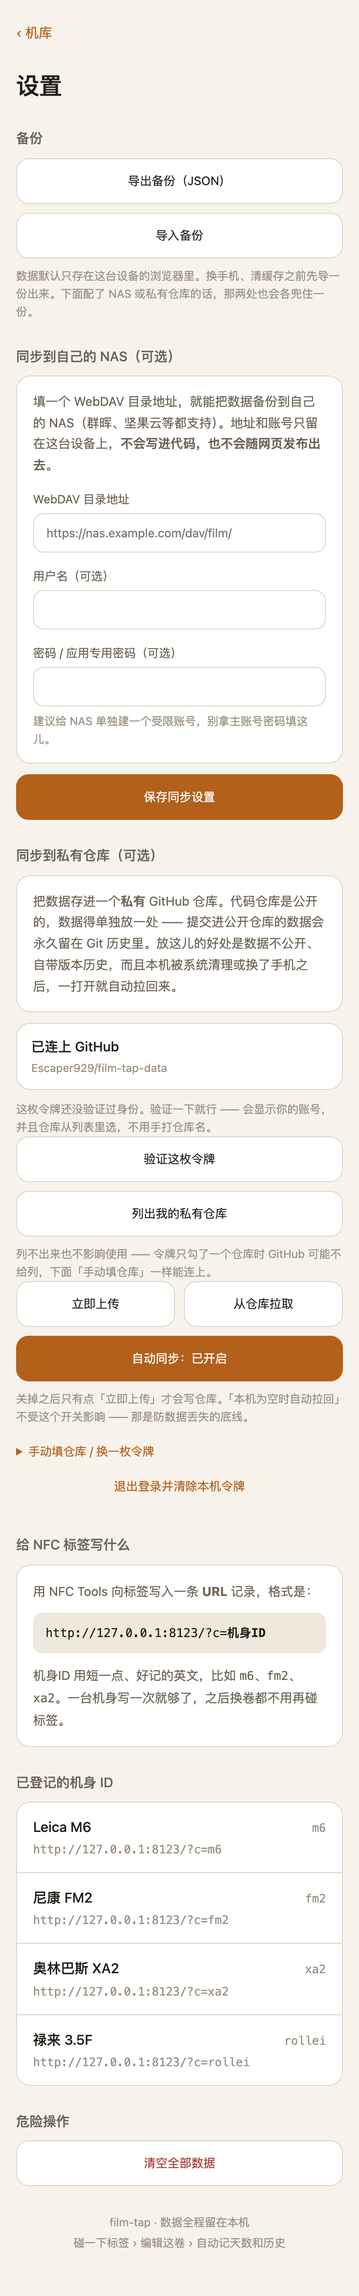
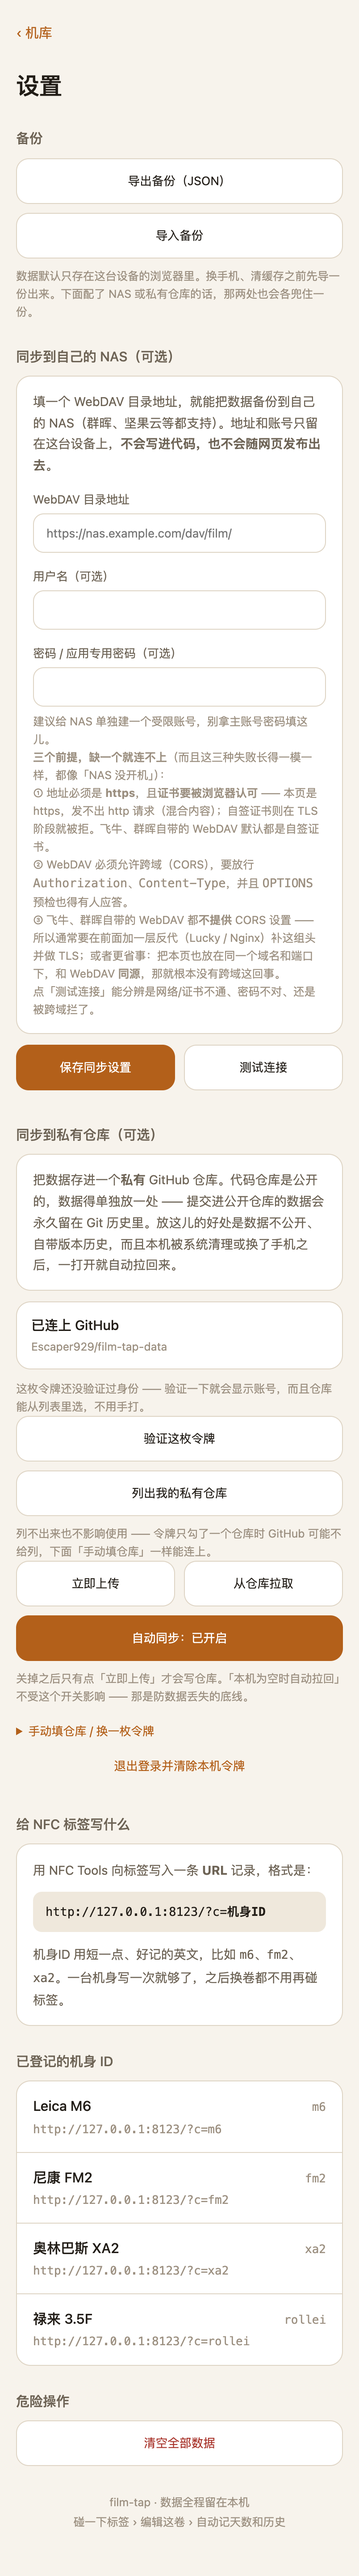
把「证书」补进诊断的第一层 —— 飞牛默认就是自签证书
查了飞牛（fnOS）的实际情况，有两个结论跟原来的文案不符：

1. 飞牛自带的 WebDAV 用的是**自签证书**（社区里反复出现「注意用 http 不要
   https，否则提示证书错误」）。而自签证书是在 TLS 阶段就被拒的，
   fetch 抛出的异常和「DNS 解析不了」一模一样、也落在 no-cors 探测那一层 ——
   可那一层的文案只写了「查域名解析、端口、NAS 是否开机」，正好漏掉
   对飞牛用户来说最常见的那一种。补上。
2. 飞牛的 WebDAV **不提供任何 CORS 设置项**（社区给出的方案都是
   「在前面加一层反代补 CORS 头」或「用代理绕过」）。所以我之前写的
   「飞牛/Alist 有的默认就带，有的要自己开」是猜的，是错的，删掉。

于是「两个前提」改成「三个前提」，并写清两条出路：
- 前面加一层反代（Lucky / Nginx）签真证书 + 补 CORS 头 + 应答 OPTIONS 预检；
- 或者让页面和 WebDAV 走同一个域名端口，**同源**就根本没有跨域这回事。
两条都不用去改 NAS 的 WebDAV —— 缺的那一层本来就不在 WebDAV 里。

改动：
- testDav() 第一层文案补「以及证书（自签的会被浏览器拒掉）」；
  第二层失败文案从「多半是 NAS 没允许跨域」改成指方向的
  「得在它前面加一层反代补上这组头」（重试永远不会好，得说清这点）。
- 设置页 NAS 提示重写成三条，点名飞牛/群晖自带 WebDAV 都不满足，
  并给出反代 / 同源两条路。
- README 那一节同步重写，另外加了一段**不用等页面**的自查：
  一条 curl 直接打预检（和页面会发的那个请求一模一样）。
- _selftest.js：`/连不到这个地址/` 那条断言追加「文案里必须出现『证书』」，
  覆盖面从三种失败变四种；改名「WebDAV 诊断分得清四种失败」。
- _firstrun.py：新增「NAS 提示写全三个前提」（证书 / 跨域 / 同源），
  并在分层结论那条上追加 `"证书" in probe`。
- _shots.py 的用法写进 README 与 _firstrun.py 顶部：这两个脚本要
  playwright，装在工程 venv 里，直接敲 `python` 会报 ModuleNotFoundError。

顺带修一个仓库状态问题：上一批只留了 shots/07、16、17，
但 11（手填仓库那套排版）同样是 `#/settings`、同样有 NAS 卡片，
当时被当成「日期噪声」一起回滚了 —— 于是 HEAD 里的 11 是过期的。
这次把 11 一并更新，另 7 张（日期噪声）仍然回滚。

sw.js CACHE v17→v18，SHELL_FP 同步。

diff --git a/index.html b/index.html
@@ -1487,12 +1487,16 @@ function renderSettings(db){
      + '<input id="dav-pass" type="password" autocomplete="new-password" placeholder="'
      +   (dav && dav.pass ? "已保存，留空就不改" : "") + '">';
   h += '<div class="hint">建议给 NAS 单独建一个受限账号，别拿主账号密码填这儿。<br>'
-     + '<b>两个前提，不满足就一定连不上：</b>① 地址必须是 <b>https</b> —— '
-     + '这个页面本身是 https 的，浏览器不允许它发出 http 请求（混合内容），'
-     + '拦得和「NAS 没开机」一模一样；② NAS 的 WebDAV 必须允许跨域（CORS），'
-     + '要放行 <span class="mono">Authorization</span> 和 <span class="mono">Content-Type</span> '
-     + '这两个请求头。群晖自带的 WebDAV 默认不放行，会卡在预检。'
-     + '点「测试连接」能分辨是网络不通、密码不对、还是被跨域拦了。</div>';
+     + '<b>三个前提，缺一个就连不上</b>（而且这三种失败长得一模一样，都像「NAS 没开机」）：<br>'
+     + '① 地址必须是 <b>https</b>，且<b>证书要被浏览器认可</b> —— 本页是 https，'
+     + '发不出 http 请求（混合内容）；自签证书则在 TLS 阶段就被拒。'
+     + '飞牛、群晖自带的 WebDAV 默认都是自签证书。<br>'
+     + '② WebDAV 必须允许跨域（CORS），要放行 <span class="mono">Authorization</span>、'
+     + '<span class="mono">Content-Type</span>，并且 <span class="mono">OPTIONS</span> 预检也得有人应答。<br>'
+     + '③ 飞牛、群晖自带的 WebDAV 都<b>不提供</b> CORS 设置 —— 所以通常要在前面加一层反代'
+     + '（Lucky / Nginx）补这组头并做 TLS；或者更省事：把本页也放在同一个域名和端口下，'
+     + '和 WebDAV <b>同源</b>，那就根本没有跨域这回事。<br>'
+     + '点「测试连接」能分辨是网络/证书不通、密码不对、还是被跨域拦了。</div>';
   h += '</div>';
   h += '<div class="row">'
      +   '<button class="btn' + (dav ? "" : " primary") + '" onclick="saveDavFromForm()">保存同步设置</button>'
@@ -1901,10 +1905,12 @@ function saveDavFromForm(){
    现有那句「连不上 NAS，检查地址和网络」在三种情况下都会出现，
    于是用户会去查一个根本没坏的网络。
 
-   ① no-cors 探一次（不发凭据、不读响应）—— 它只回答「网络层通不通」。
+   ① no-cors 探一次（不发凭据、不读响应）—— 它只回答「这一趟连接建不建得起来」。
+      注意它同时也覆盖**证书**：自签证书在 TLS 阶段就被拒，请求同样发不出去。
+      不是多余的一层 —— 飞牛/群晖自带的 WebDAV 默认就是自签证书，这是最常见的一种。
    ② 网络通了再发正常请求 —— 能过就是真能用。
    ③ 网络通、正常请求却被拦 —— 那就只可能是 NAS 没允许跨域（CORS），
-      这不是网络问题，得去 NAS 上开。 */
+      这不是网络问题，得在 NAS 前面加一层能发 CORS 头的反代。 */
 async function testDav(){
   const url = ($("#dav-url").value || "").trim();
   if (!url){ toast("先填 WebDAV 地址"); return; }
@@ -1924,7 +1930,10 @@ async function testDav(){
   try{
     await fetch(target, { mode: "no-cors", method: "GET", cache: "no-store" });
   }catch(e){
-    toast("连不到这个地址 —— 查域名解析、端口、以及 NAS 是否开机");
+    /* 这一层同时兜住证书：自签证书在 TLS 阶段就被拒，请求根本没发出去，
+       抛的异常和「DNS 解析不了」一模一样。所以必须把证书写进这句里，
+       否则用默认自签证书的 NAS 用户会去查一个没坏的域名。 */
+    toast("连不到这个地址 —— 查域名解析、端口、NAS 是否开机，以及证书（自签的会被浏览器拒掉）");
     return;
   }
 
@@ -1935,7 +1944,9 @@ async function testDav(){
     if (res.status === 404)     { toast("连通 —— 还没有备份文件，点「立即同步」上传第一份"); return; }
     toast("连得上，但服务器回了 " + res.status);
   }catch(e){
-    toast("网络通，请求被浏览器拦了 —— 多半是 NAS 没允许跨域（CORS）");
+    /* 网络通、请求却没过 —— 只剩跨域这一种可能。给出**方向**而不是现象：
+       NAS 自带的 WebDAV（飞牛、群晖都算）不提供 CORS 设置，单纯重试永远不会好。 */
+    toast("网络通，但 NAS 这一层没允许跨域（CORS）—— 得在它前面加一层反代补上这组头");
   }
 }
 

diff --git a/_selftest.js b/_selftest.js
@@ -1211,10 +1211,15 @@ try {
       throw new TypeError("Failed to fetch");
     };
 
-    /* ① 连 no-cors 探测都抛 → 网络层就不通 */
+    /* ① 连 no-cors 探测都抛 → 连接根本建不起来。
+       这一层的文案必须同时点到**证书**：自签证书在 TLS 阶段就被拒，
+       抛的异常和「DNS 解析不了」一模一样。飞牛 / 群晖自带的 WebDAV
+       默认就是自签证书 —— 漏了这两个字，用户就去查一个没坏的域名了。 */
     global.fetch = async () => { throw new TypeError("Failed to fetch"); };
     await testDav();
-    const w1 = /连不到这个地址/.test(__el("#toast").textContent);
+    const t1 = __el("#toast").textContent;
+    const w1 = /连不到这个地址/.test(t1);
+    const w5 = /证书/.test(t1);
 
     /* ② 探测过了、正常请求被拦 → 网络好着，是 NAS 没允许跨域 */
     global.fetch = probeOK;
@@ -1237,8 +1242,9 @@ try {
     await testDav();
     const w4 = /账号密码不对/.test(__el("#toast").textContent);
 
-    check("WebDAV 诊断分得清三种失败", w1 && w2 && w3 && w4,
-          "网络不通=" + w1 + " 跨域被拦=" + w2 + " 无备份=" + w3 + " 密码错=" + w4);
+    check("WebDAV 诊断分得清四种失败", w1 && w2 && w3 && w4 && w5,
+          "网络/证书不通=" + w1 + " 提到证书=" + w5 + " 跨域被拦=" + w2 +
+          " 无备份=" + w3 + " 密码错=" + w4);
   } catch (e) {
     check("私有仓库同步", false, "抛异常 " + e.message);
   }

diff --git a/sw.js b/sw.js
@@ -8,11 +8,11 @@
    SHELL 里那些文件的内容指纹，`_selftest.js` 会算一遍比对。
    对不上就自检失败，逼你改这一行；改了这一行 sw.js 的字节就变了，
    浏览器才会去装新 SW。版本号和指纹两个都要动。 */
-const CACHE = "filmtap-v17";
+const CACHE = "filmtap-v18";
 const SHELL = ["./", "./index.html", "./manifest.webmanifest"];
 /* SHA-256(index.html + "\n" + manifest.webmanifest)，按换行归一化后算。
    算错不要紧：跑 `node _selftest.js` 会把正确的值打出来，照抄即可。 */
[2 lines of base64/hex data omitted]
 
 self.addEventListener("install", e => {
   e.waitUntil(

diff --git a/_firstrun.py b/_firstrun.py
@@ -11,9 +11,14 @@
 - 本地过、线上没过 → sw.js 忘了动，手机还在吃旧缓存
 - 线上过、本地没过 → 基本不可能，但也能立刻看出来
 
-用法：
-    python _firstrun.py                        # 线上 Pages
-    python _firstrun.py http://127.0.0.1:8123   # 本地服务
+用法（注意解释器：playwright 装在工程 venv 里，系统 python3 没有）：
+
+    PY=/Users/lh/.workbuddy/binaries/python/envs/default/bin/python
+    $PY _firstrun.py                             # 线上 Pages
+    $PY _firstrun.py http://127.0.0.1:8123       # 本地服务
+
+直接敲 `python _firstrun.py` 会报 ModuleNotFoundError: playwright —— 那不是
+脚本坏了，是解释器选错了。上面那个 venv 才是装了 playwright 的那个。
 
 退出码非 0 = 有失败项或有 JS 报错。需要 playwright（用本机已装的 Edge，
 不额外下载内核，跟 _shots.py 一致）。
@@ -124,12 +129,18 @@ with sync_playwright() as p:
           ["验证并登录", "建一个私有仓库", "建一枚 fine-grained 令牌"]),
           "文案齐" if "建一个私有仓库" in h else "缺文案")
 
-    # ── ⑥b WebDAV 的两个前提（先跑这条，它不改 gh 那边的状态）──
+    # ── ⑥b WebDAV 的三个前提（先跑这条，它不改 gh 那边的状态）──
     # 这个页面若是 https，http 地址就**根本发不出请求**（混合内容），
     # 拦得很彻底，现象和「NAS 没开机」一模一样 —— 保存时就该挡下来。
     # ⚠ 但守卫本身是判 location.protocol 的，所以拿 http 本地服务跑时
     #    它**不应该**触发（同协议不受混合内容约束）。这一点必须跟着 BASE 走。
     check("NAS 区有测试连接按钮", "testDav()" in app(page))
+    # 提示得把三个前提都写出来，并且点名「自签证书」和「同源」这两条出路 ——
+    # 飞牛 / 群晖自带的 WebDAV 恰好在证书和 CORS 上同时不合格。
+    settings_h = app(page)
+    check("NAS 提示写全三个前提",
+          all(s in settings_h for s in
+              ["证书要被浏览器认可", "允许跨域", "同源"]))
     page.fill("#dav-url", "http://" + "nas.example.com:5005/dav/film/")
     page.fill("#dav-user", "filmapp")
     page.click("button:has-text('保存同步设置')")
@@ -151,12 +162,15 @@ with sync_playwright() as p:
     # 真的点一次「测试连接」。用 .invalid（RFC 2606 保留，保证解析不了），
     # 这样既不去碰任何真实主机，结论也是确定的 —— 应该落在
     # 「连不到这个地址」那一层，正好验证分层诊断的第一层是通的。
+    # 这一层的文案还**必须点到证书**：自签证书在 TLS 阶段被拒，抛的异常
+    # 和 DNS 解析不了完全一样，而飞牛 / 群晖默认就是自签证书。
     page.fill("#dav-url", "https://" + "no-such-nas.invalid/dav/film/")
     mark = len(errs)
     page.click("button:has-text('测试连接')")
     page.wait_for_timeout(2500)
     probe = page.evaluate("document.querySelector('#toast').textContent")
-    check("测试连接给出分层结论", "连不到这个地址" in probe, repr(probe))
+    check("测试连接给出分层结论",
+          ("连不到这个地址" in probe) and ("证书" in probe), repr(probe))
     # 这次探测是**故意**打一个坏域名的，浏览器会为它记一条 net::ERR_ 资源错误。
     # 那是预期内的，不该算成页面报错 —— 只把这一段里的那类错误滤掉。
     errs[mark:] = [e for e in errs[mark:] if "Failed to load resource" not in e]
